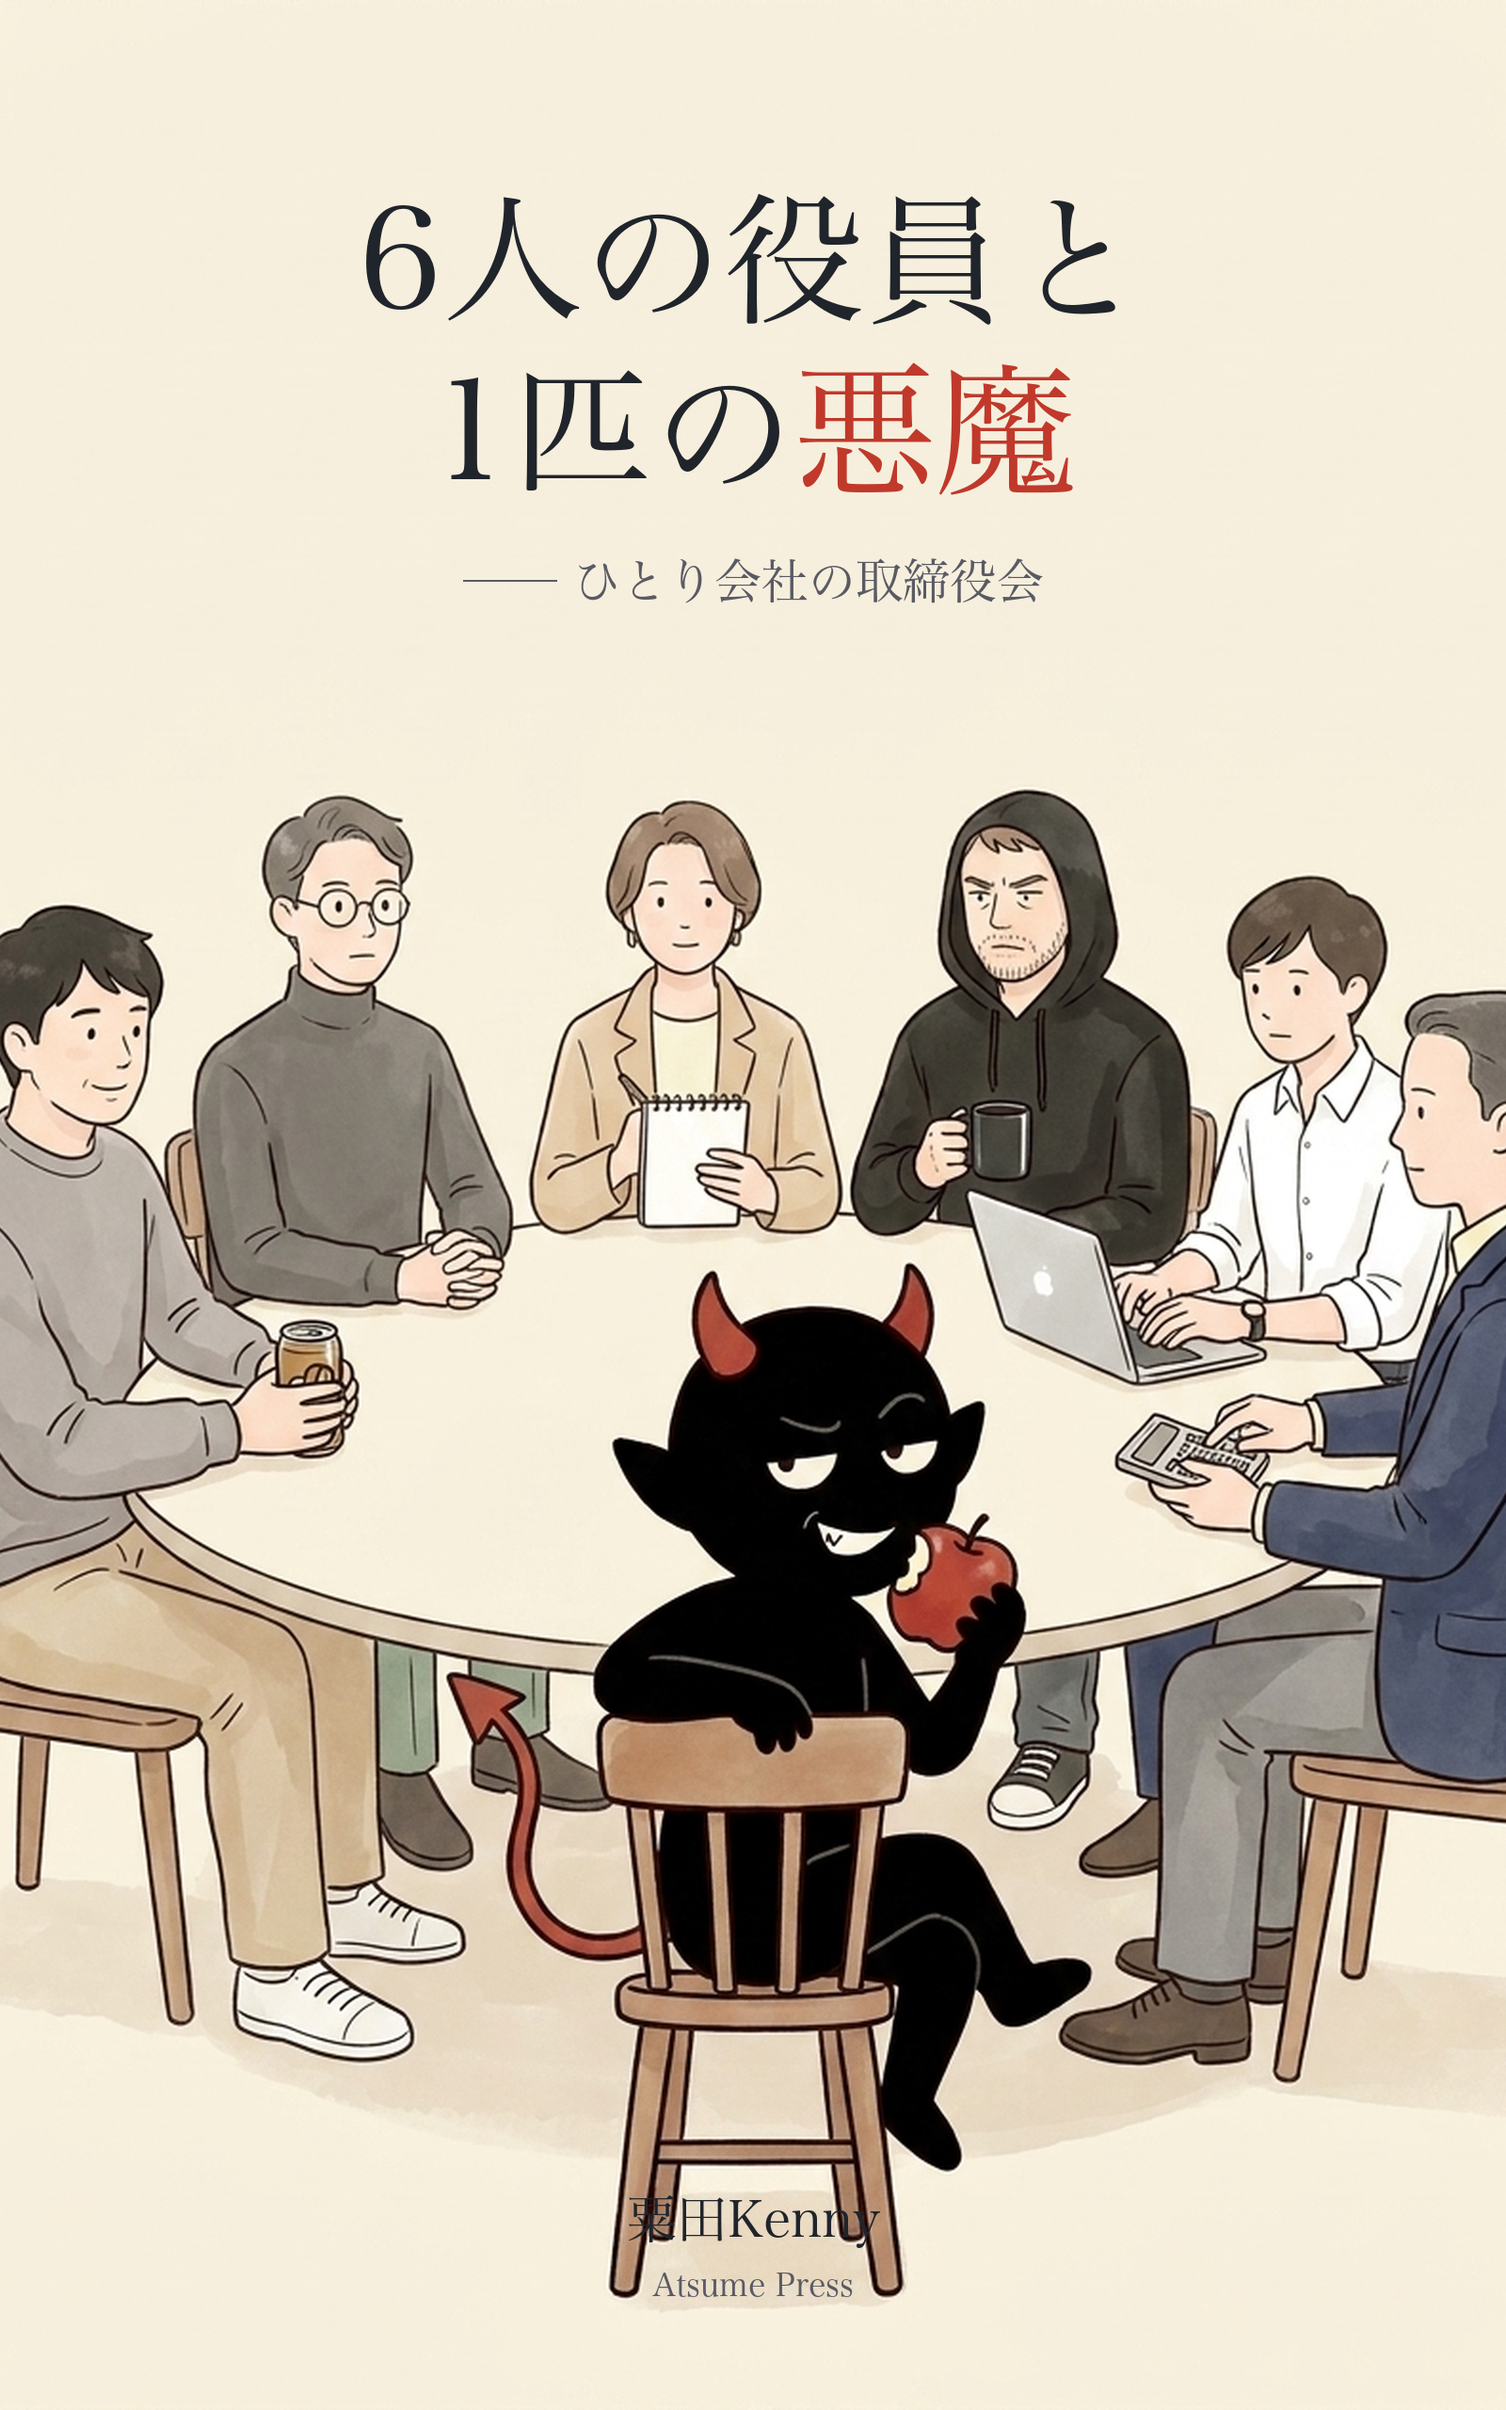
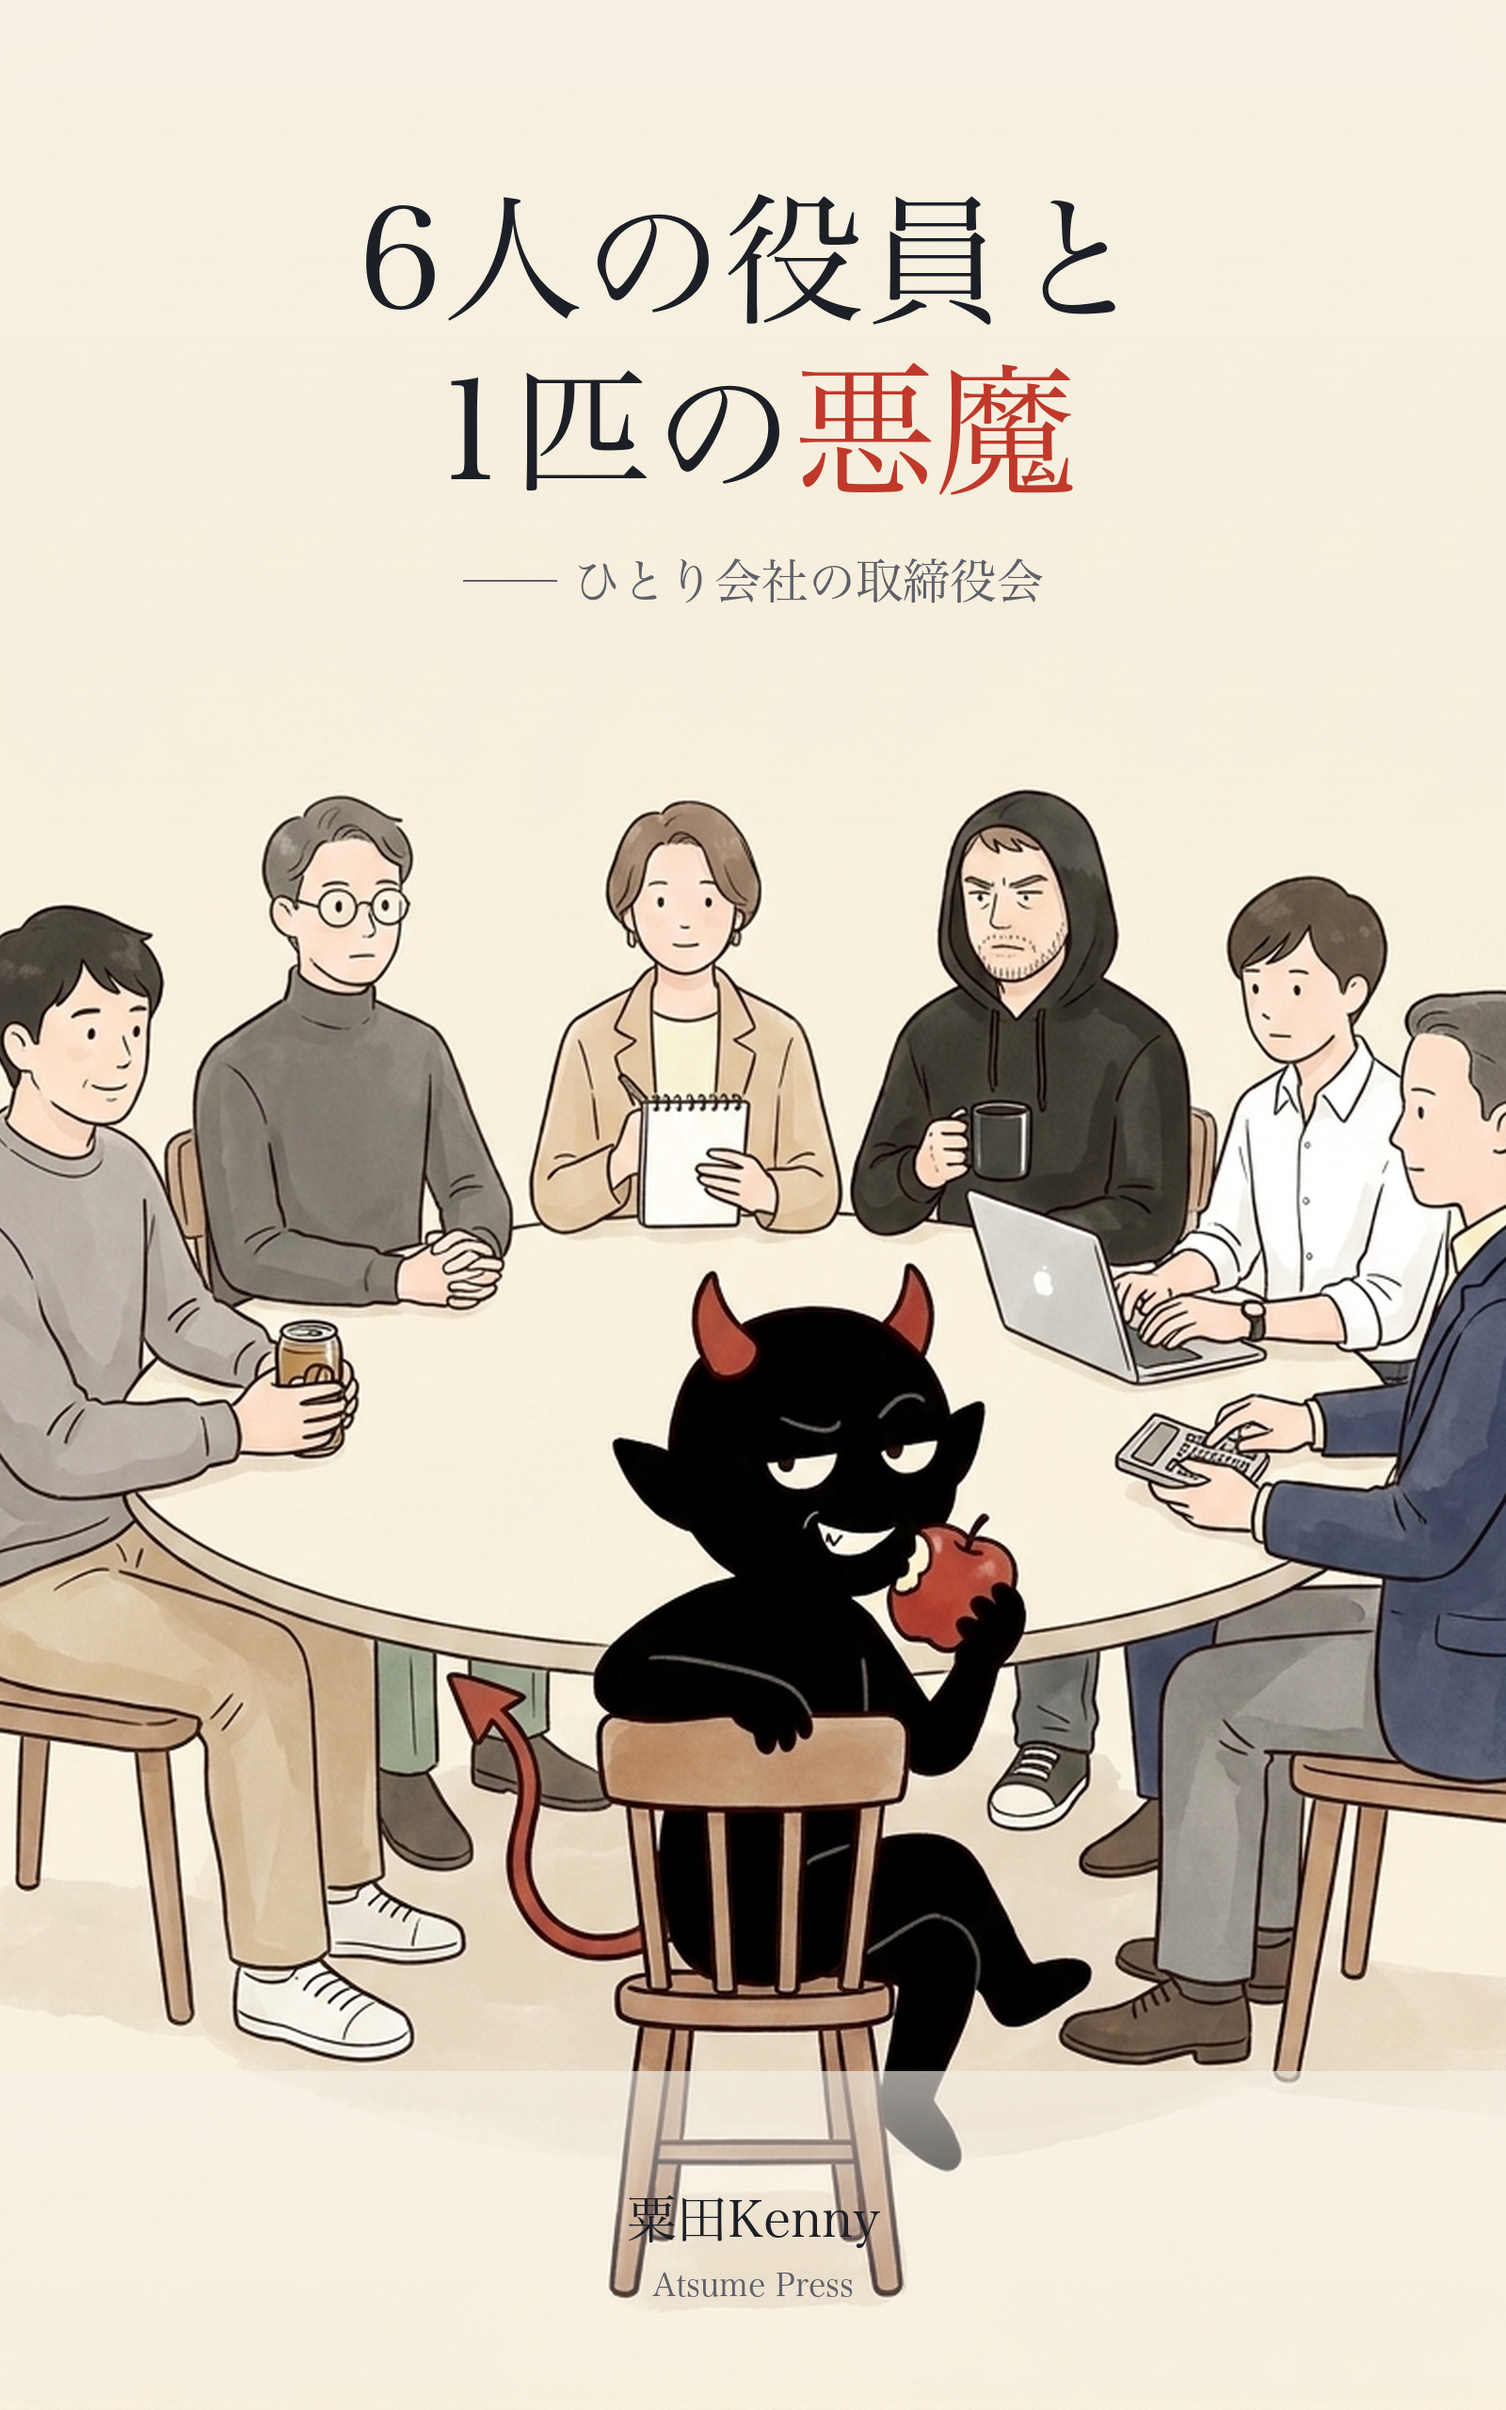
表紙微調整: 上下に淡いクリームのスクリムを敷きタイトル/著者名の視認性を改善

Changed region(s): [[0.4062, 0.8438, 0.6562, 0.9688], [0.6562, 0.8438, 0.8125, 0.875]]

diff --git a/scripts/make_cover.py b/scripts/make_cover.py
@@ -18,8 +18,20 @@ art2 = art.resize((round(art.width * scale), round(art.height * scale)), Image.L
 left = (art2.width - W) // 2; top = (art2.height - H) // 2
 canvas = art2.crop((left, top, left + W, top + H))
 
+# 下部に淡いクリームのスクリム(著者名の視認性) + 上部にも軽く(タイトル)
+overlay = Image.new("RGBA", (W, H), (0, 0, 0, 0))
+od = ImageDraw.Draw(overlay)
+for i in range(360):  # 下から上へ薄くなるクリーム
+    y = H - 360 + i
+    a = int(165 * (1 - i / 360))
+    od.line([(0, y), (W, y)], fill=(245, 241, 232, a))
+for i in range(620):  # 上から下へ薄くなるクリーム(タイトル背面)
+    a = int(150 * (1 - i / 620))
+    od.line([(0, i), (W, i)], fill=(245, 241, 232, a))
+canvas = Image.alpha_composite(canvas.convert("RGBA"), overlay).convert("RGB")
+
 d = ImageDraw.Draw(canvas)
-DARK = (32, 36, 43); RED = (192, 57, 43); MUTED = (90, 90, 100)
+DARK = (28, 31, 38); RED = (192, 57, 43); MUTED = (96, 96, 106)
 
 def center(text, font, y, fill):
     w = d.textlength(text, font=font)
